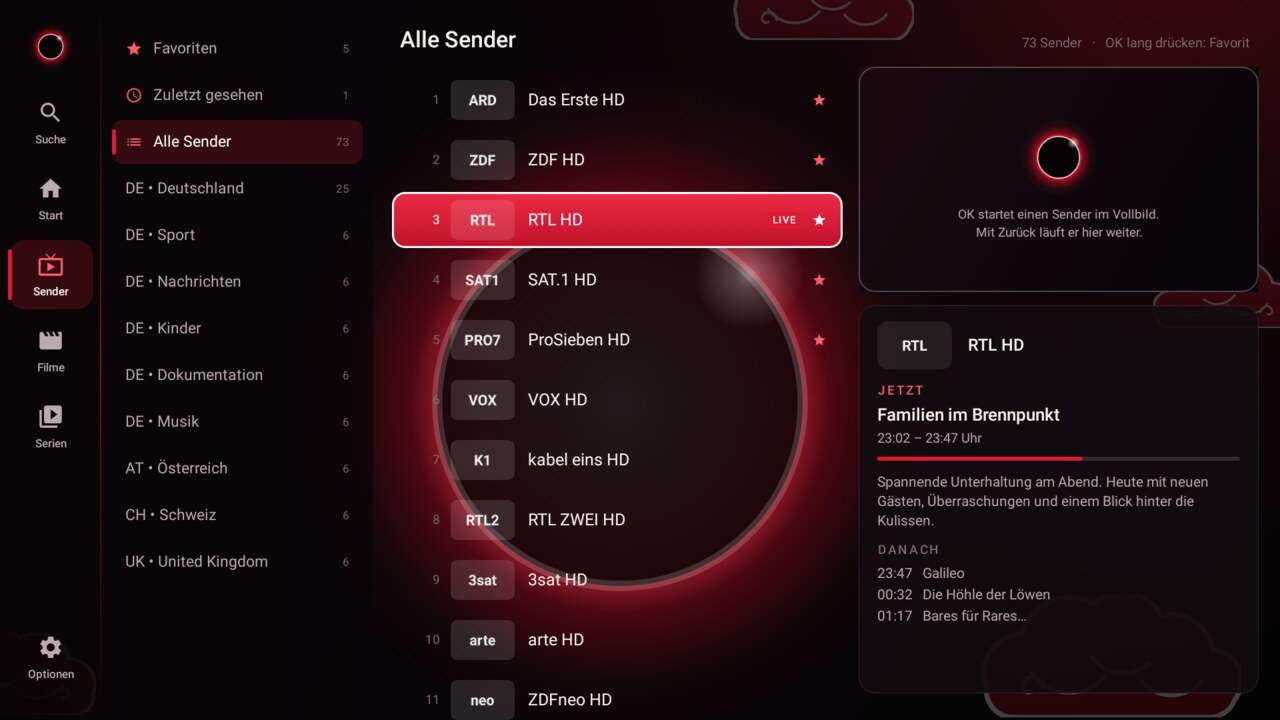
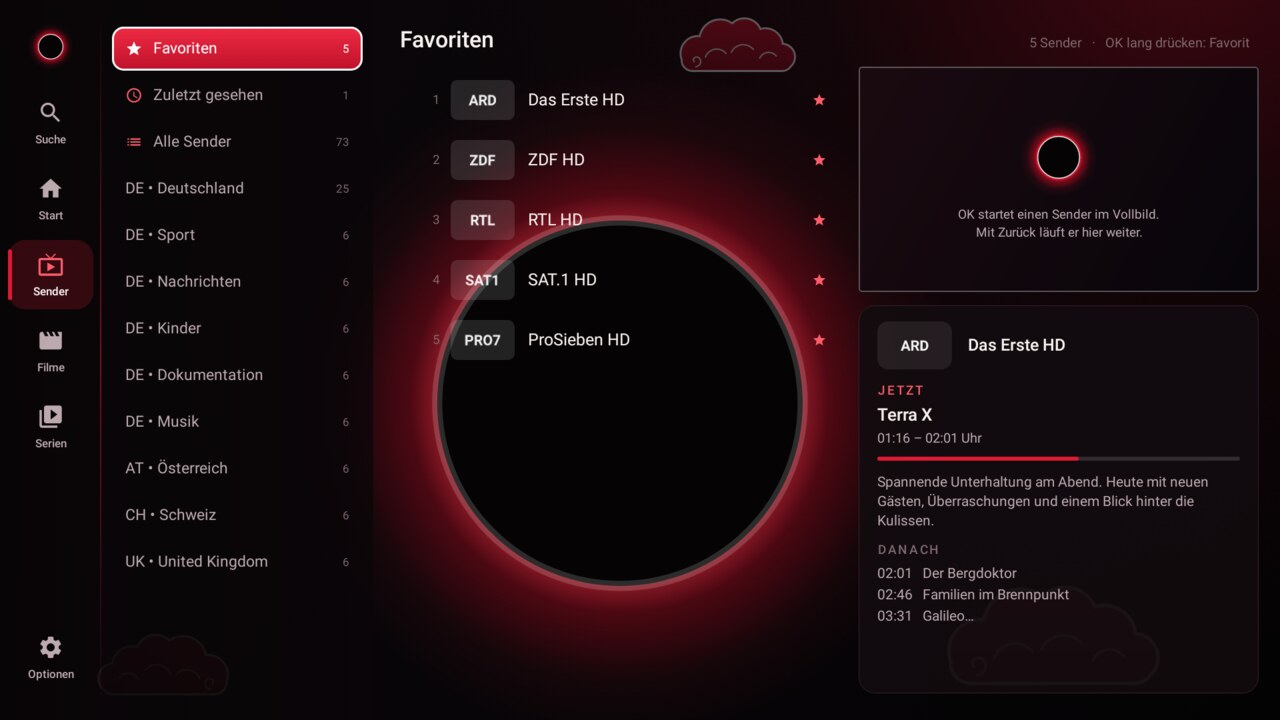
Optionsfenster: erste Zeile hat den Fokus; Version 0.9.0, README-Bilder

diff --git a/app/src/main/java/de/eclipseiptv/ui/Sheet.java b/app/src/main/java/de/eclipseiptv/ui/Sheet.java
@@ -27,11 +27,15 @@ public final class Sheet extends Dialog {
                 dismiss();
             }
         });
+        // Anklickbare Flaechen werden ab Android 8 sonst automatisch fokussierbar und
+        // schnappen der ersten Zeile den Fokus weg.
+        root.setFocusable(false);
         LinearLayout panel = new LinearLayout(c);
         panel.setOrientation(LinearLayout.VERTICAL);
         panel.setBackground(Ui.outline(Ui.SURFACE, 16, Ui.LINE, 0.7f));
         panel.setPadding(Ui.dp(18), Ui.dp(18), Ui.dp(18), Ui.dp(14));
         panel.setClickable(true);
+        panel.setFocusable(false);
         TextView t = Ui.text(c, 15f, Ui.TEXT, true);
         t.setText(title);
         Ui.lines(t, 2);
@@ -124,7 +128,7 @@ public final class Sheet extends Dialog {
             first.post(new Runnable() {
                 @Override
                 public void run() {
-                    if (getCurrentFocus() == null || !getCurrentFocus().isFocused()) first.requestFocus();
+                    if (!first.isFocused() && (getCurrentFocus() == null || getCurrentFocus().getParent() != first.getParent())) first.requestFocus();
                 }
             });
         }

diff --git a/README.md b/README.md
@@ -33,7 +33,7 @@ Einträgen.
 - **Große Playlists:** zehntausende Sender, Filme und Serien werden in eine lokale Datenbank eingelesen und sind danach sofort durchsuchbar
 - **Listen entstehen von selbst:** die Kategorien der Playlist werden übernommen, getrennt nach Sendern, Filmen und Serien
 - **Xtream-Zugänge werden erkannt:** aus einem Link der Form `…/get.php?username=…&password=…` holt die App zusätzlich Beschreibungen, Besetzung, Bewertungen, Trailer und das laufende Programm
-- **Vorschau neben der Senderliste:** Zurück aus dem Vollbild läuft der Sender klein weiter, ohne neu zu laden – über dieselbe Verbindung, auch bei Zugängen mit nur einer erlaubten Verbindung
+- **Vorschau neben der Senderliste:** Zurück aus dem Vollbild läuft der Sender klein weiter, ohne neu zu laden – über dieselbe Verbindung, auch bei Zugängen mit nur einer erlaubten Verbindung. Das Video geht direkt an die Grafik-Hardware (SurfaceView) und bleibt flüssig, egal was in der Liste passiert
 - **Programm zum Sender:** was läuft gerade, wie lange noch, was kommt danach
 - **Filme und Serien mit Detailseite:** Poster, Handlung, Trailer (über die YouTube-App), Staffeln und Folgen
 - **Weiterschauen:** die App merkt sich, wo du aufgehört hast, und spielt bei Serien die nächste Folge
@@ -41,7 +41,8 @@ Einträgen.
 - **Player:** Umschalten mit ▲▼, Senderliste auf OK, Zifferneingabe, Tonspur, Untertitel und Bildformat; spielt auch AC3, E-AC3 und DTS
 - **Jugendschutz:** Inhalte ab 18 sind standardmäßig ausgeblendet; einzelne Kategorien lassen sich verbergen
 - **Einrichtung vom Handy:** QR-Code scannen, Link einfügen, fertig
-- **Design:** Schwarz, Blutmond-Rot und weiße Konturen, rote Wolken; die Auswahl ist eine kräftig rote Fläche mit weißem Rand und auch vom Sofa aus gut zu erkennen
+- **Design:** Schwarz, Blutmond-Rot und weiße Konturen, langsam treibende rote Wolken; die Auswahl ist eine kräftig rote Fläche mit weißem Rand und auch vom Sofa aus gut zu erkennen
+- **Sparsam:** Wolken werden einmal gezeichnet und nur verschoben, der Hintergrund ist vorberechnet, und alle Animationen stehen still, solange sie nicht zu sehen sind
 - Kein Konto, keine Werbung, keine Datensammlung
 
 ## Installieren
